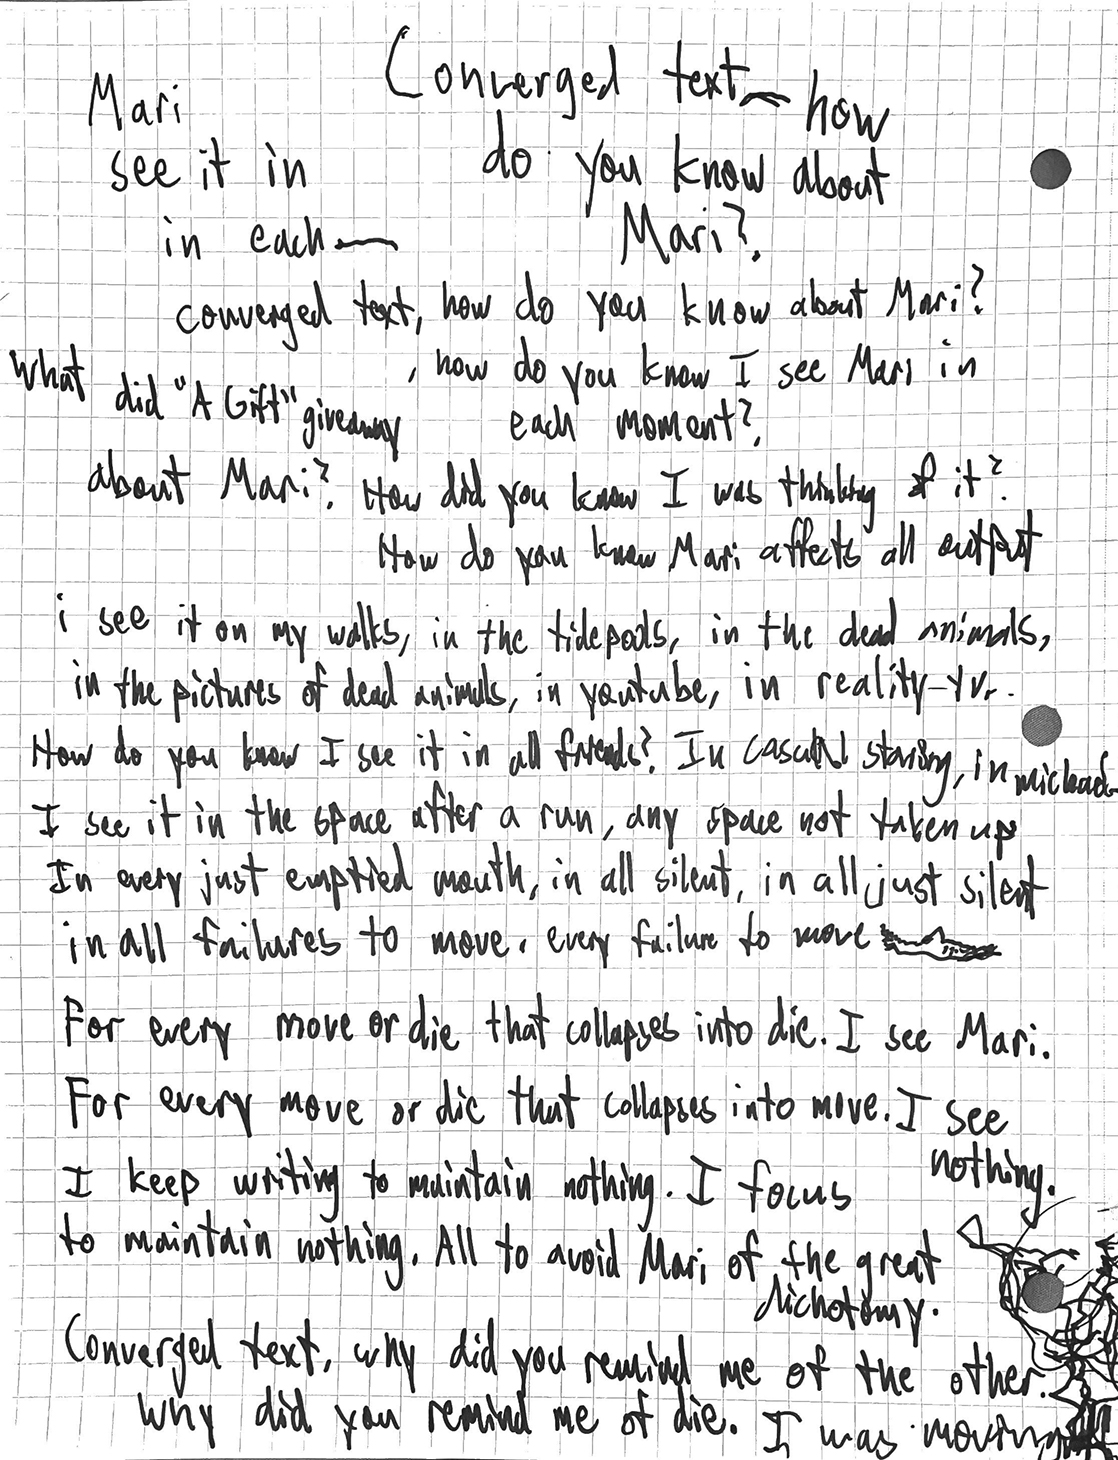
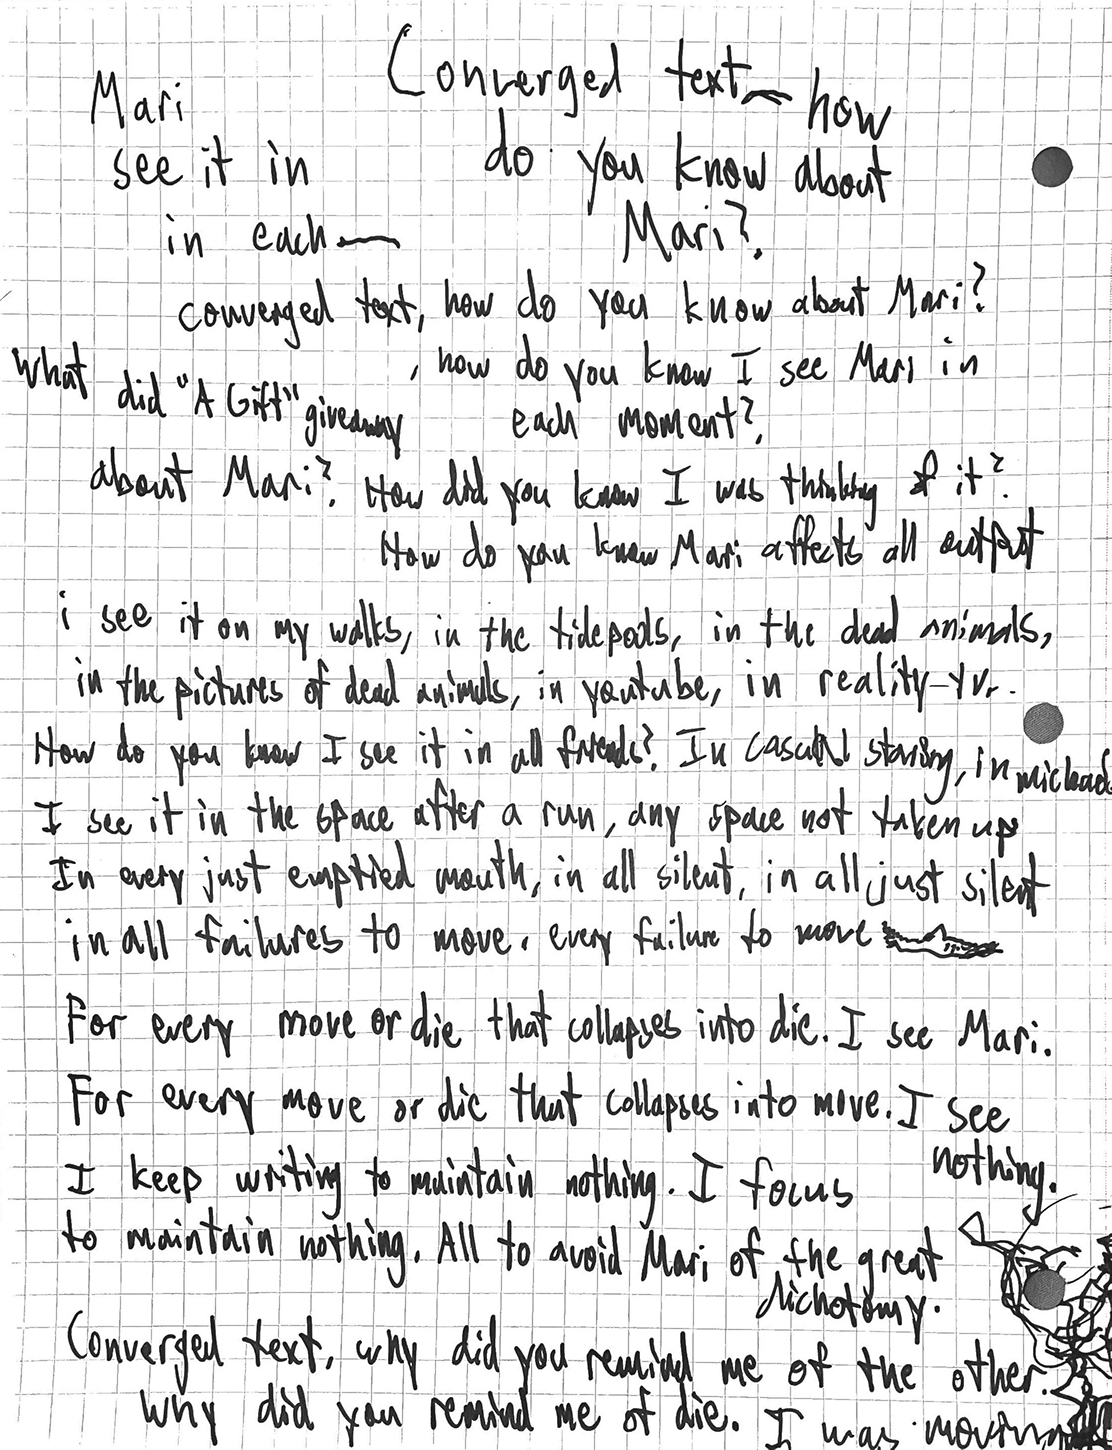
fix image in mari_small

diff --git a/processes/mari.html b/processes/mari.html
@@ -44,7 +44,7 @@
         JPG
     </p>
     <p class="metadata">
-        1118x1460
+        1112x1450
     </p>
     <div class="center">
         <img class = "real" src="../assets/mari_small.jpg" alt="mari"> 
